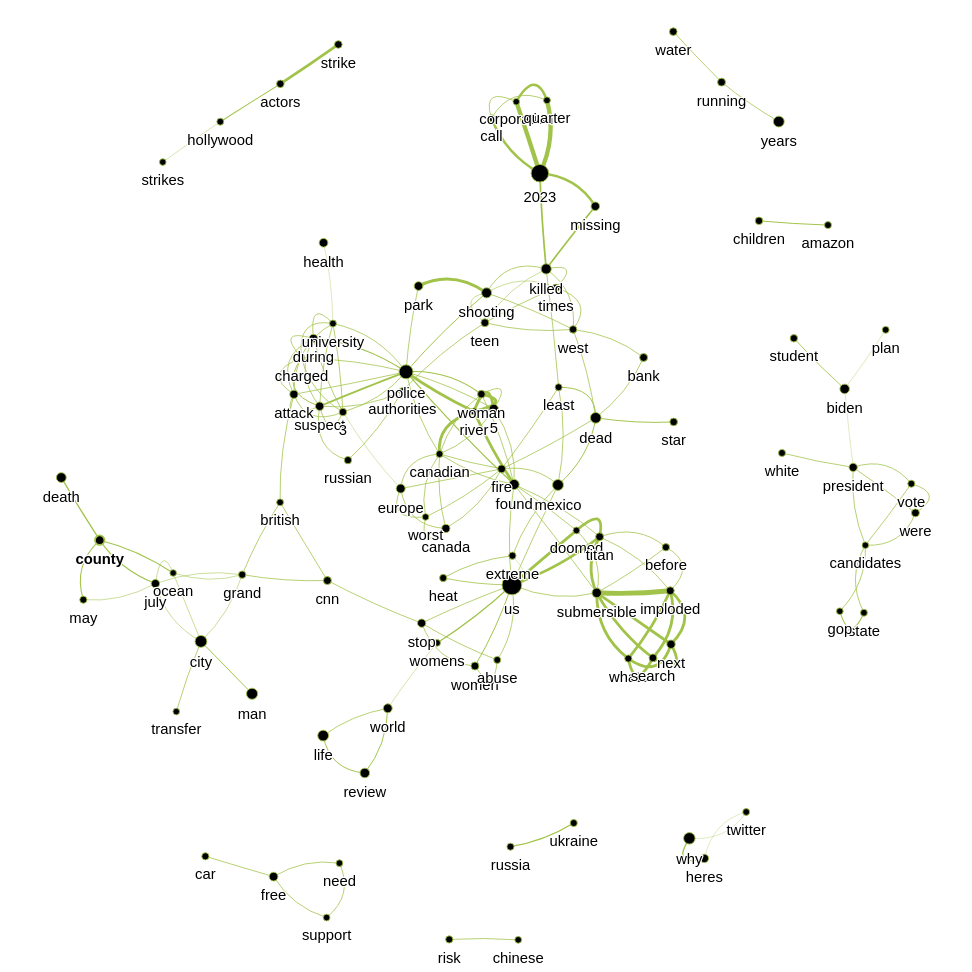
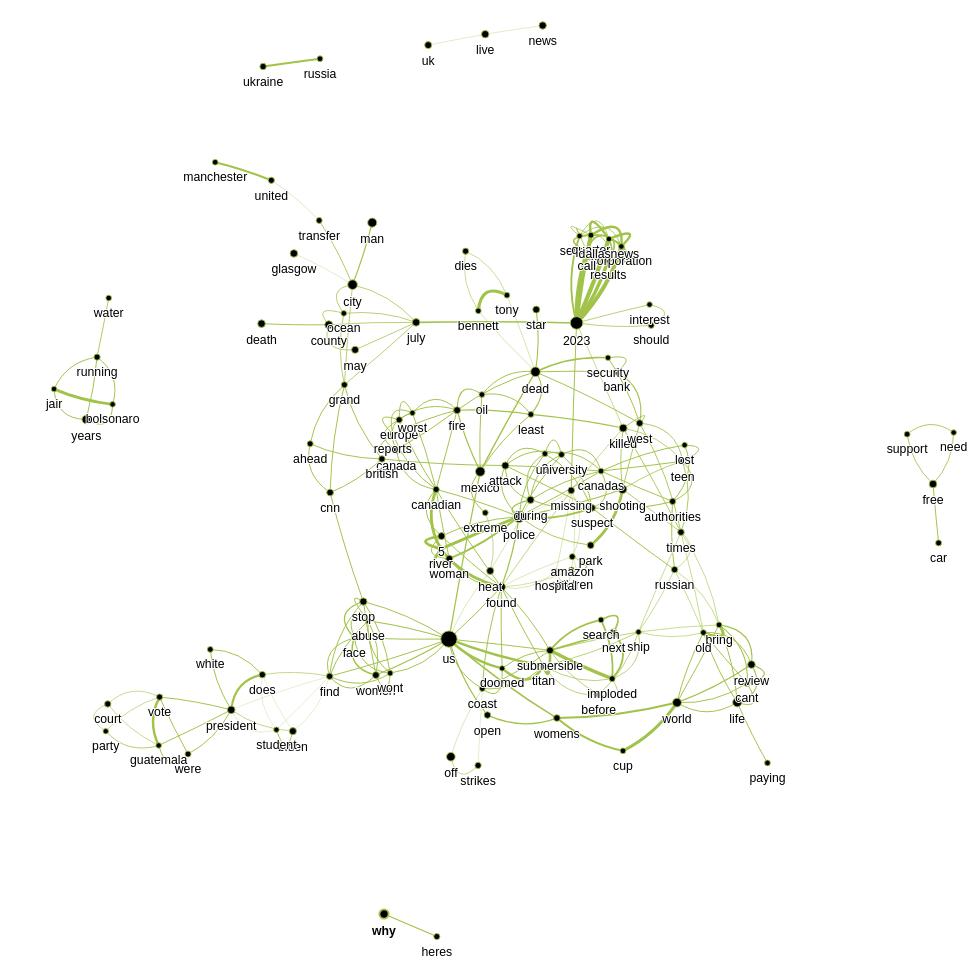
new week of data

diff --git a/site/_posts/2023-07-23-w29.md b/site/_posts/2023-07-23-w29.md
@@ -1,0 +1,176 @@
+---
+layout: post
+title:  "2023 week 29"
+date:   2023-07-23
+image: /assets/images/weekly/y2023w29.png
+---
+CSV of data where count > 15:
+```
+n.name,n.y2023w29
+"""corporation""",16
+"""police""",71
+"""summer""",39
+"""call""",18
+"""off""",35
+"""report""",20
+"""why""",46
+"""biden""",17
+"""uk""",28
+"""amid""",17
+"""ukraine""",24
+"""mexico""",43
+"""finds""",17
+"""dies""",22
+"""car""",19
+"""glasgow""",35
+"""woman""",30
+"""life""",41
+"""long""",16
+"""claims""",16
+"""deal""",19
+"""before""",26
+"""judge""",17
+"""missing""",21
+"""found""",35
+"""us""",103
+"""china""",17
+"""next""",31
+"""news""",32
+"""live""",38
+"""europe""",18
+"""killed""",27
+"""world""",53
+"""review""",27
+"""death""",29
+"""against""",31
+"""may""",33
+"""barbie""",25
+"""event""",16
+"""does""",28
+"""war""",18
+"""russian""",26
+"""river""",18
+"""london""",16
+"""hit""",23
+"""shows""",16
+"""dead""",53
+"""still""",17
+"""best""",27
+"""worst""",16
+"""court""",26
+"""ai""",35
+"""time""",25
+"""cup""",28
+"""children""",21
+"""tour""",16
+"""5""",26
+"""park""",23
+"""trump""",39
+"""guilty""",18
+"""authorities""",22
+"""suspect""",21
+"""millions""",16
+"""bank""",21
+"""find""",31
+"""women""",30
+"""face""",18
+"""wont""",18
+"""stop""",31
+"""canada""",31
+"""shooting""",39
+"""cnn""",24
+"""least""",18
+"""attack""",30
+"""british""",24
+"""oil""",21
+"""fire""",29
+"""jair""",16
+"""bolsonaro""",16
+"""free""",34
+"""canadian""",24
+"""teen""",18
+"""lost""",19
+"""days""",18
+"""canadas""",18
+"""running""",17
+"""years""",35
+"""during""",30
+"""university""",21
+"""doomed""",16
+"""titan""",21
+"""submersible""",24
+"""coast""",18
+"""extreme""",21
+"""temperatures""",18
+"""wildfire""",18
+"""smoke""",16
+"""reports""",21
+"""guatemala""",18
+"""vote""",19
+"""president""",35
+"""critics""",16
+"""ship""",18
+"""imploded""",16
+"""2023""",55
+"""amazon""",18
+"""affect""",18
+"""russia""",21
+"""another""",17
+"""security""",19
+"""west""",25
+"""county""",35
+"""star""",29
+"""womens""",33
+"""open""",31
+"""ahead""",22
+"""grand""",18
+"""set""",26
+"""man""",44
+"""food""",18
+"""health""",26
+"""kids""",16
+"""should""",18
+"""england""",19
+"""cant""",21
+"""bring""",18
+"""old""",18
+"""down""",31
+"""week""",19
+"""city""",46
+"""being""",19
+"""black""",25
+"""july""",31
+"""fans""",23
+"""paying""",19
+"""heat""",38
+"""climate""",18
+"""house""",17
+"""must""",17
+"""home""",18
+"""united""",21
+"""second""",20
+"""chief""",22
+"""quarter""",16
+"""more""",23
+"""transfer""",17
+"""heres""",17
+"""presidential""",17
+"""times""",27
+"""ocean""",16
+"""interest""",20
+"""dallasnews""",16
+"""financial""",16
+"""results""",22
+"""north""",17
+"""san""",25
+"""strikes""",26
+"""former""",17
+"""40""",16
+"""party""",17
+"""video""",16
+"""game""",21
+"""tony""",33
+"""records""",16
+"""bennett""",32
+"""96""",21
+```

diff --git a/site/_posts/2023-07-16-w28.md b/site/_posts/2023-07-16-w28.md
@@ -1,7 +1,7 @@
 ---
 layout: post
 title:  "2023 week 28"
-date:   2023-02-10
+date:   2023-07-16
 image: /assets/images/weekly/y2023w28.png
 ---
 CSV of data where count >15:
